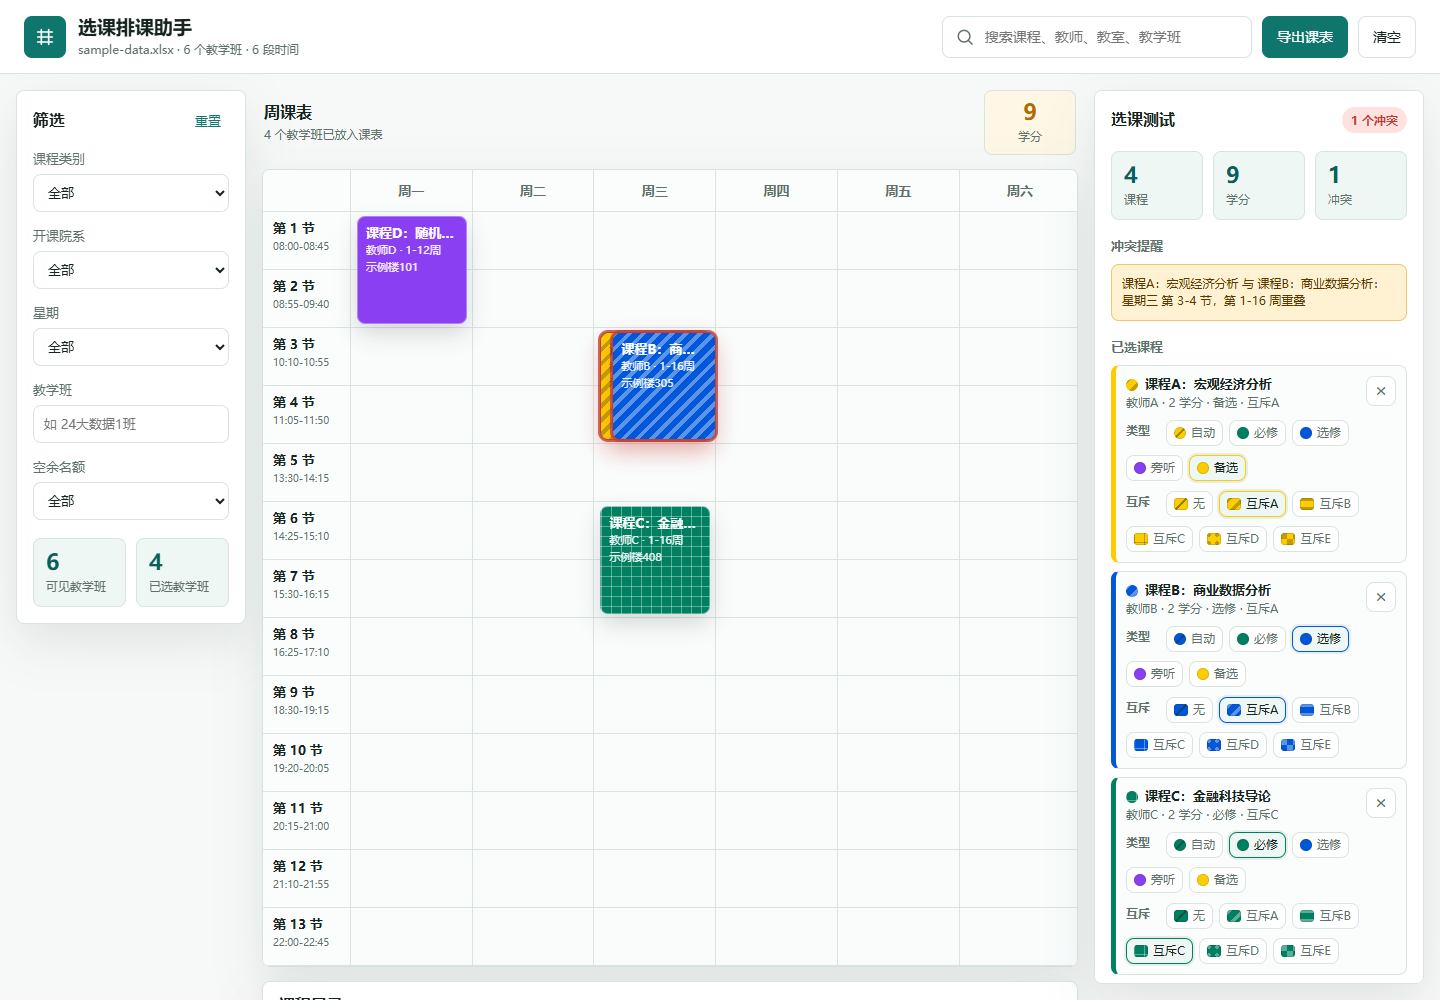
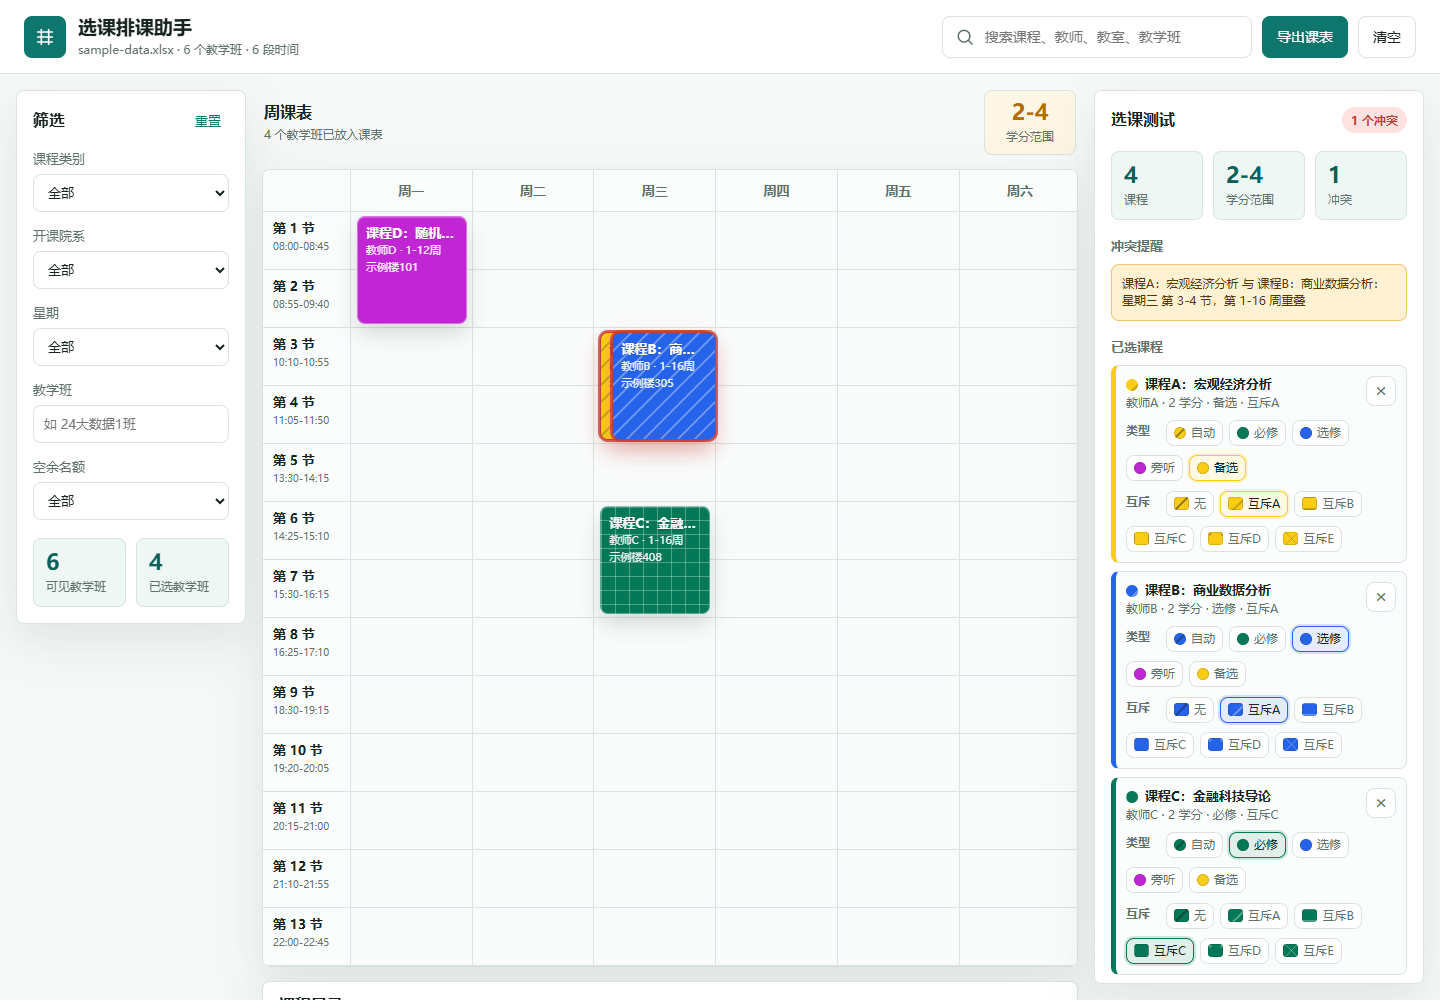
2.0

diff --git a/src/app.js b/src/app.js
@@ -16,52 +16,52 @@ const PERIODS = [
   "21:10-21:55",
   "22:00-22:45",
 ];
-const BLOCK_COLORS = ["#0f766e", "#315f8c", "#836a1f", "#7a4f96", "#b15d3a", "#3d7864", "#5d6f32"];
+const BLOCK_COLORS = ["#0f766e", "#2563eb", "#b45309", "#7c3aed", "#0e7490", "#475569", "#be123c"];
 const STYLE_STORAGE_KEY = "classScheduleHelper.courseStyles.v2";
 const LEGACY_COLOR_STORAGE_KEY = "classScheduleHelper.courseColors.v1";
 const COURSE_TYPES = [
   { id: "auto", label: "自动", color: "" },
-  { id: "required", label: "必修", color: "#008060" },
-  { id: "elective", label: "选修", color: "#0057d9" },
-  { id: "audit", label: "旁听", color: "#8b3ff2" },
-  { id: "backup", label: "备选", color: "#ffcc00", textColor: "#17231f" },
+  { id: "required", label: "必修", color: "#047857" },
+  { id: "elective", label: "选修", color: "#2563eb" },
+  { id: "audit", label: "旁听", color: "#c026d3" },
+  { id: "backup", label: "备选", color: "#facc15", textColor: "#17231f" },
 ];
 const EXCLUSION_PATTERNS = [
   { id: "none", label: "无互斥", shortLabel: "无", pattern: "none", size: "auto" },
   {
     id: "pair-a",
-    label: "互斥A 斜线",
+    label: "互斥A 细斜线",
     shortLabel: "互斥A",
-    pattern: "repeating-linear-gradient(135deg, var(--block-pattern-ink) 0 4px, transparent 4px 10px)",
+    pattern: "repeating-linear-gradient(135deg, var(--block-pattern-ink) 0 2px, transparent 2px 12px)",
     size: "auto",
   },
   {
     id: "pair-b",
-    label: "互斥B 横线",
+    label: "互斥B 细横线",
     shortLabel: "互斥B",
-    pattern: "repeating-linear-gradient(0deg, var(--block-pattern-ink) 0 3px, transparent 3px 9px)",
+    pattern: "repeating-linear-gradient(0deg, var(--block-pattern-ink) 0 2px, transparent 2px 12px)",
     size: "auto",
   },
   {
     id: "pair-c",
-    label: "互斥C 网格",
+    label: "互斥C 细网格",
     shortLabel: "互斥C",
     pattern: "linear-gradient(90deg, var(--block-pattern-ink) 1px, transparent 1px), linear-gradient(0deg, var(--block-pattern-ink) 1px, transparent 1px)",
-    size: "10px 10px",
+    size: "14px 14px",
   },
   {
     id: "pair-d",
     label: "互斥D 点纹",
     shortLabel: "互斥D",
-    pattern: "radial-gradient(circle at 2px 2px, var(--block-pattern-ink) 0 1.6px, transparent 1.9px)",
-    size: "8px 8px",
+    pattern: "radial-gradient(circle at 2px 2px, var(--block-pattern-ink) 0 1.5px, transparent 1.8px)",
+    size: "12px 12px",
   },
   {
     id: "pair-e",
-    label: "互斥E 棋盘",
+    label: "互斥E 交叉线",
     shortLabel: "互斥E",
-    pattern: "conic-gradient(from 90deg, var(--block-pattern-ink) 0 25%, transparent 0 50%, var(--block-pattern-ink) 0 75%, transparent 0)",
-    size: "12px 12px",
+    pattern: "repeating-linear-gradient(45deg, var(--block-pattern-ink) 0 1px, transparent 1px 10px), repeating-linear-gradient(135deg, var(--block-pattern-ink) 0 1px, transparent 1px 10px)",
+    size: "auto",
   },
 ];
 const LEGACY_COLOR_MAP = {
@@ -75,10 +75,12 @@ const LEGACY_COLOR_MAP = {
   "#a16207": { type: "audit" },
   "#6b7280": { type: "audit" },
   "#8b3ff2": { type: "audit" },
+  "#c026d3": { type: "audit" },
   "#7a4f96": { type: "backup" },
   "#7c3aed": { type: "backup" },
   "#ffd23f": { type: "backup" },
   "#ffcc00": { type: "backup" },
+  "#facc15": { type: "backup" },
   "#c43d32": { pattern: "pair-a" },
   "#dc2626": { pattern: "pair-a" },
   "#d00000": { pattern: "pair-a" },
@@ -172,6 +174,30 @@ function formatCredits(value) {
   return Number.isInteger(value) ? String(value) : value.toFixed(1);
 }
 
+function creditRange(courses) {
+  return courses.reduce(
+    (range, course) => {
+      const credits = Number(course.credits || 0);
+      const type = getCourseStyle(course).type;
+      if (type === "required") {
+        range.min += credits;
+        range.max += credits;
+      } else if (type === "elective") {
+        range.max += credits;
+      }
+      return range;
+    },
+    { min: 0, max: 0 },
+  );
+}
+
+function formatCreditRange(courses) {
+  const range = creditRange(courses);
+  const min = formatCredits(range.min);
+  const max = formatCredits(range.max);
+  return min === max ? min : `${min}-${max}`;
+}
+
 function sectionText(section) {
   if (!section || !section.parsed) return section?.raw || "时间待确认";
   return `${section.weekday} ${section.startPeriod}-${section.endPeriod} [${section.weekStart}-${section.weekEnd}] ${section.location}`;
@@ -238,7 +264,7 @@ function getPatternLabel(course) {
 }
 
 function getPatternInk(course) {
-  return getCourseTextColor(course) === "#17231f" ? "rgba(23, 35, 31, 0.28)" : "rgba(255, 255, 255, 0.36)";
+  return getCourseTextColor(course) === "#17231f" ? "rgba(23, 35, 31, 0.22)" : "rgba(255, 255, 255, 0.30)";
 }
 
 function getStyleSummary(course) {
@@ -580,15 +606,15 @@ function renderDetail(course) {
 }
 
 function renderSummary(courses, conflicts) {
-  const totalCredits = courses.reduce((sum, course) => sum + Number(course.credits || 0), 0);
+  const creditsText = formatCreditRange(courses);
   const files = data.meta?.sourceFiles || [];
   const source = files.length > 1 ? `${files.length} 个导出文件` : files[0] || "本地数据";
   const deduped = data.meta?.dedupedCount ? ` · 已去重 ${data.meta.dedupedCount} 条` : "";
   el.dataStatus.textContent = `${source} · ${data.meta?.courseCount || data.courses.length} 个教学班 · ${data.meta?.sectionCount || 0} 段时间${deduped}`;
   el.selectedCount.textContent = String(courses.length);
   el.summaryCourses.textContent = String(courses.length);
-  el.summaryCredits.textContent = formatCredits(totalCredits);
-  el.creditTotal.textContent = formatCredits(totalCredits);
+  el.summaryCredits.textContent = creditsText;
+  el.creditTotal.textContent = creditsText;
   el.summaryConflicts.textContent = String(conflicts.length);
   el.scheduleSummary.textContent = courses.length ? `${courses.length} 个教学班已放入课表` : "未选择课程";
 
@@ -624,7 +650,7 @@ function buildExportGrid(courses, conflictSectionKeys) {
 }
 
 function exportScheduleHtml(courses, conflicts, conflictSectionKeys) {
-  const totalCredits = courses.reduce((sum, course) => sum + Number(course.credits || 0), 0);
+  const creditsText = formatCreditRange(courses);
   const cells = buildExportGrid(courses, conflictSectionKeys);
   const now = new Date();
   const dateText = now.toLocaleString("zh-CN", { hour12: false });
@@ -710,10 +736,10 @@ function exportScheduleHtml(courses, conflicts, conflictSectionKeys) {
     tbody th { width: 82px; background: #fbfcfc; text-align: left; }
     tbody th strong, tbody th span { display: block; }
     tbody th span { margin-top: 4px; color: var(--muted); font-size: 11px; font-weight: 400; }
-    .course-block { min-height: 62px; padding: 8px; border-radius: 8px; color: var(--block-text-color, #fff); background-color: var(--block-color); background-image: var(--block-pattern, none); background-size: var(--block-pattern-size, auto); background-repeat: repeat; box-shadow: inset 0 0 0 1px rgba(255,255,255,.28); }
+    .course-block { min-height: 62px; padding: 8px; border-radius: 8px; color: var(--block-text-color, #fff); background-color: var(--block-color); background-image: var(--block-pattern, none); background-size: var(--block-pattern-size, auto); background-repeat: repeat; box-shadow: inset 0 1px 0 rgba(255,255,255,.24), inset 0 0 0 1px rgba(255,255,255,.24); }
     .course-block.conflict { outline: 3px solid var(--danger); box-shadow: 0 0 0 1px #fff inset; }
     .course-block strong, .course-block span, .course-block small { display: block; line-height: 1.35; }
-    .course-block strong { font-size: 13px; }
+    .course-block strong { font-size: 13px; text-shadow: 0 1px 1px rgba(23,35,31,.18); }
     .course-block span, .course-block small { font-size: 11px; opacity: .94; }
     .plain-table { table-layout: auto; }
     .plain-table th { background: #eef7f4; text-align: left; }
@@ -735,7 +761,7 @@ function exportScheduleHtml(courses, conflicts, conflictSectionKeys) {
     </div>
     <div class="stats">
       <div class="stat"><strong>${escapeHtml(courses.length)}</strong><span>课程</span></div>
-      <div class="stat"><strong>${escapeHtml(formatCredits(totalCredits))}</strong><span>学分</span></div>
+      <div class="stat"><strong>${escapeHtml(creditsText)}</strong><span>学分范围</span></div>
       <div class="stat"><strong>${escapeHtml(conflicts.length)}</strong><span>冲突</span></div>
     </div>
   </header>

diff --git a/src/styles.css b/src/styles.css
@@ -419,7 +419,9 @@ select:focus,
   background-size: var(--block-pattern-size, auto);
   background-repeat: repeat;
   border: 1px solid rgba(255, 255, 255, 0.35);
-  box-shadow: 0 10px 22px rgba(23, 35, 31, 0.16);
+  box-shadow:
+    inset 0 1px 0 rgba(255, 255, 255, 0.24),
+    0 10px 22px rgba(23, 35, 31, 0.16);
   overflow: hidden;
   display: flex;
   flex-direction: column;
@@ -454,6 +456,7 @@ select:focus,
   font-size: 13px;
   line-height: 1.25;
   font-weight: 800;
+  text-shadow: 0 1px 1px rgba(23, 35, 31, 0.18);
   white-space: nowrap;
   overflow: hidden;
   text-overflow: ellipsis;
@@ -700,6 +703,11 @@ tbody tr.active {
   background: var(--surface);
   color: var(--muted);
   font-size: 12px;
+  transition:
+    background-color 0.16s ease,
+    border-color 0.16s ease,
+    box-shadow 0.16s ease,
+    color 0.16s ease;
 }
 
 .style-chip span {
@@ -718,7 +726,8 @@ tbody tr.active {
 }
 
 .pattern-chip span {
-  width: 14px;
+  width: 15px;
+  height: 13px;
   border-radius: 3px;
   background-color: var(--swatch-color);
   background-image: var(--swatch-pattern, none);
@@ -733,8 +742,8 @@ tbody tr.active {
 .style-chip.active {
   border-color: var(--swatch-color);
   color: var(--text);
-  background: var(--surface-soft);
-  box-shadow: 0 0 0 2px rgba(15, 118, 110, 0.1);
+  background: color-mix(in srgb, var(--swatch-color) 12%, #ffffff);
+  box-shadow: 0 0 0 2px color-mix(in srgb, var(--swatch-color) 18%, transparent);
 }
 
 .remove-button {

diff --git a/index.html b/index.html
@@ -92,7 +92,7 @@
             </div>
             <div class="credit-pill">
               <span id="creditTotal">0</span>
-              <small>学分</small>
+              <small>学分范围</small>
             </div>
           </div>
           <div class="schedule-scroll">
@@ -135,7 +135,7 @@
             </div>
             <div>
               <span id="summaryCredits">0</span>
-              <small>学分</small>
+              <small>学分范围</small>
             </div>
             <div>
               <span id="summaryConflicts">0</span>

diff --git a/README.md b/README.md
@@ -15,6 +15,7 @@
 - 在右侧查看已选课程、冲突提醒和课程详情。
 - 用颜色标记课程类型：必修、选修、旁听、备选。
 - 用纹理标记互斥关系：互斥 A-E 支持斜线、横线、网格、点纹、棋盘纹理。
+- 总学分按课程类型显示为区间：最低值只计入必修，最高值计入必修和选修；旁听、备选不计入。
 - 导出当前已选课表为独立 HTML 文件，方便打印或另存为 PDF。
 
 ## 快速开始